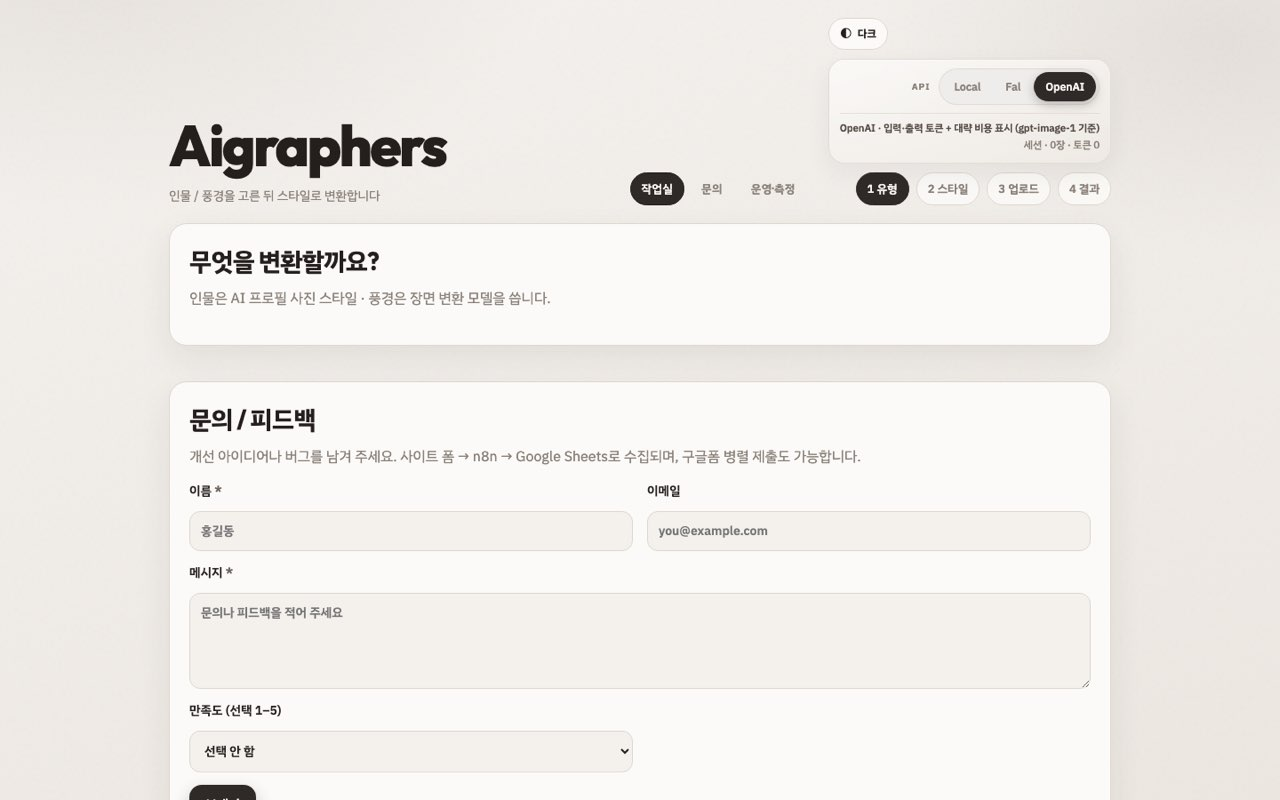
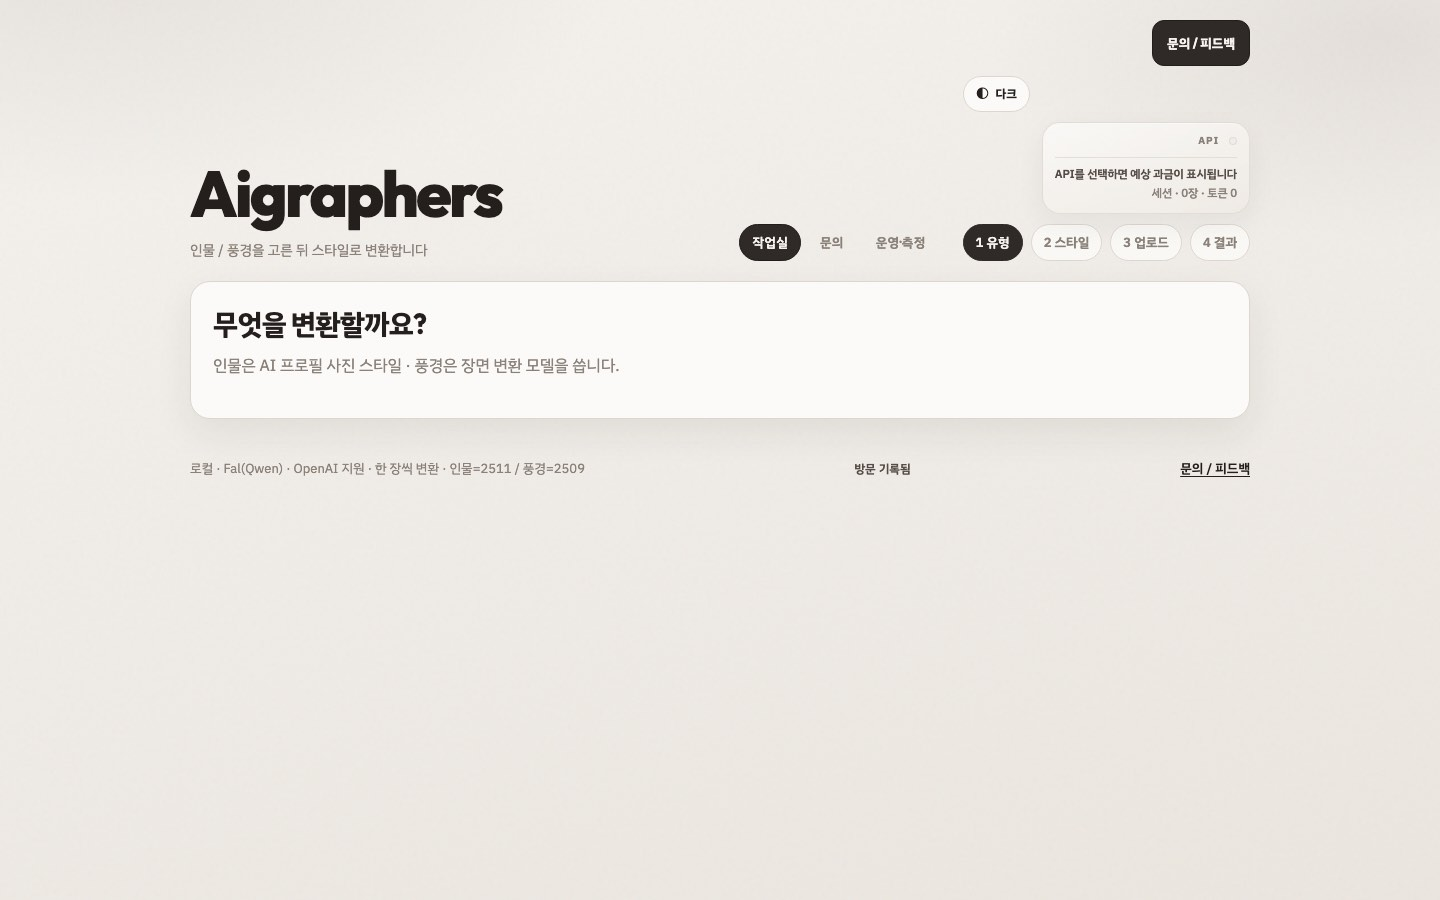
Make assignment evidence easy to find for grading.
Add a checklist mapping each rubric gap to URLs and repo files, surface links at the top of README, and refresh page screenshots plus API/deploy logs.

diff --git a/docs/과제-보완체크리스트.md b/docs/과제-보완체크리스트.md
@@ -1,0 +1,70 @@
+# 과제 보완 체크리스트 (채점용)
+
+리포지토리: [Astrophotographer/codyssey2-3](https://github.com/Astrophotographer/codyssey2-3)  
+프로덕션: **https://aigraphers.vercel.app/**
+
+아래는 「부족한 점 → 보완 위치」 매핑입니다.
+
+---
+
+## 1. 배포 URL · 3개 독립 페이지
+
+| # | 페이지 | URL | 스크린샷 |
+|---|--------|-----|----------|
+| 1 | 작업실 | https://aigraphers.vercel.app/ | [docs/evidence/01-atelier.jpg](evidence/01-atelier.jpg) |
+| 2 | 문의 / 피드백 | https://aigraphers.vercel.app/contact.html | [docs/evidence/02-contact.jpg](evidence/02-contact.jpg) |
+| 3 | 운영 · 측정 | https://aigraphers.vercel.app/ops.html | [docs/evidence/03-ops.jpg](evidence/03-ops.jpg) |
+
+소스: `index.html`, `contact.html`, `ops.html`
+
+---
+
+## 2. 기획서 · 스크린샷 · 로그 (리포 증빙)
+
+| 항목 | 경로 |
+|------|------|
+| 기획서 (PDF) | [docs/aigraphers-기획서.pdf](aigraphers-기획서.pdf) |
+| 스크린샷 3장 | [docs/evidence/](evidence/) |
+| API 스모크 로그 | [docs/evidence/api-smoke-log.txt](evidence/api-smoke-log.txt) |
+| 배포 로그 | [docs/evidence/deploy-log.txt](evidence/deploy-log.txt) |
+| 증빙 안내 | [docs/evidence/README.md](evidence/README.md) |
+
+---
+
+## 3. 로그 확인 · 콘솔 · 재배포 · 문제해결
+
+→ 루트 [README.md](../README.md) 절 **「Troubleshooting (로그 · 콘솔 · 재배포)」**
+
+포함 내용: 브라우저 DevTools, `npx vercel logs` / `inspect` / `ls`, 재배포 순서, Fal 잔액·env 미설정 대응.
+
+---
+
+## 4. 지연·캐싱·비동기·비용 절감
+
+→ README 절 **「지연·비용 개선 옵션 (요약)」**
+
+포함: CDN/Cache-Control, 업로드 리사이즈, provider 폴백, 작업 큐, 재시도, Local GPU worker.
+
+---
+
+## 5. 시크릿 유출 대응
+
+→ README 절 **「시크릿 유출 대응」**
+
+포함: 즉시 폐기 → 토큰 롤오버 → 로그 조사 → 재발 방지.
+
+---
+
+## 6. 프레임워크 변경 영향
+
+→ README 절 **「프레임워크 변경 시 영향 (간단 분석)」**
+
+포함: Next.js / FastAPI Docker / Streamlit·Gradio 장단점·마이그레이션 범위.
+
+---
+
+## 빠른 링크
+
+- README: https://github.com/Astrophotographer/codyssey2-3/blob/main/README.md  
+- 본 체크리스트: https://github.com/Astrophotographer/codyssey2-3/blob/main/docs/과제-보완체크리스트.md  
+- API health: https://aigraphers.vercel.app/api/health  

diff --git a/README.md b/README.md
@@ -3,17 +3,26 @@
 사진 업로드 → 스타일 프리셋 → AI 변환 (Local / Fal / OpenAI).  
 Vercel 정적 프론트 + Python (FastAPI) 서버리스 API.
 
+> **과제 제출용 한눈에 보기:** [docs/과제-보완체크리스트.md](docs/과제-보완체크리스트.md)  
+> (배포 URL · 3페이지 · 기획서 PDF · 스크린샷/로그 · Troubleshooting · 비용개선 · 유출대응 · 프레임워크 분석)
+
 ## 배포 URL · 주요 3페이지
 
-| # | 페이지 | URL |
-|---|--------|-----|
-| 1 | 작업실 (변환) | https://aigraphers.vercel.app/ |
-| 2 | 문의 / 피드백 | https://aigraphers.vercel.app/contact.html |
-| 3 | 운영 · 측정 | https://aigraphers.vercel.app/ops.html |
+| # | 페이지 | URL | 스크린샷 |
+|---|--------|-----|----------|
+| 1 | 작업실 (변환) | https://aigraphers.vercel.app/ | [docs/evidence/01-atelier.jpg](docs/evidence/01-atelier.jpg) |
+| 2 | 문의 / 피드백 | https://aigraphers.vercel.app/contact.html | [docs/evidence/02-contact.jpg](docs/evidence/02-contact.jpg) |
+| 3 | 운영 · 측정 | https://aigraphers.vercel.app/ops.html | [docs/evidence/03-ops.jpg](docs/evidence/03-ops.jpg) |
 
 API 스모크: [health](https://aigraphers.vercel.app/api/health) · [config](https://aigraphers.vercel.app/api/config) · [providers](https://aigraphers.vercel.app/api/providers)
 
-증빙(스크린샷·배포 로그·기획서): [`docs/evidence/`](docs/evidence/) · [`docs/aigraphers-기획서.pdf`](docs/aigraphers-기획서.pdf)
+| 증빙 | 경로 |
+|------|------|
+| 기획서 PDF | [docs/aigraphers-기획서.pdf](docs/aigraphers-기획서.pdf) |
+| 스크린샷·로그 폴더 | [docs/evidence/](docs/evidence/) |
+| API 로그 | [docs/evidence/api-smoke-log.txt](docs/evidence/api-smoke-log.txt) |
+| 배포 로그 | [docs/evidence/deploy-log.txt](docs/evidence/deploy-log.txt) |
+| 보완 체크리스트 | [docs/과제-보완체크리스트.md](docs/과제-보완체크리스트.md) |
 
 ## Folder structure
 
